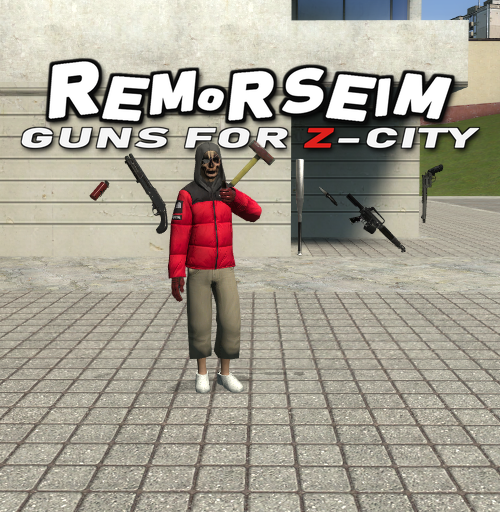
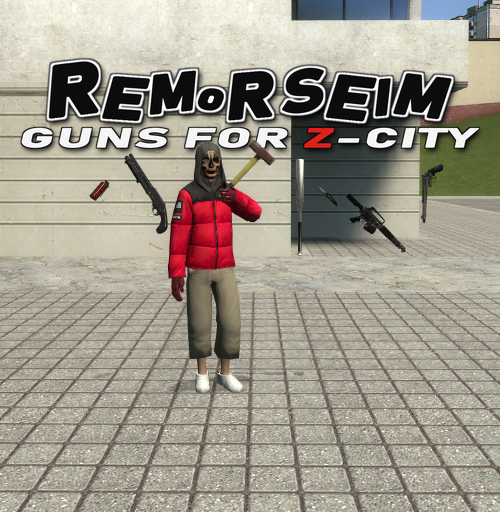
docs: Remorseim picture - the word black with a white edge

Changed region(s): [[0.09, 0.0938, 0.93, 0.25]]

diff --git a/tools/title_picture.py b/tools/title_picture.py
@@ -17,7 +17,7 @@ from PIL import Image, ImageDraw, ImageFont, ImageFilter
 
 S = 4  # supersampling
 RED, WHITE = (222, 32, 28, 255), (245, 245, 245, 255)
-PURE, BLACK = (255, 255, 255, 255), (12, 12, 12, 255)  # the logo of Remorse: white on black
+PURE, BLACK = (12, 12, 12, 255), (255, 255, 255, 255)  # the jumping word: black letters, white edge
 
 
 def line(font, parts, tracking, squash=0.72, slant=0.22):
